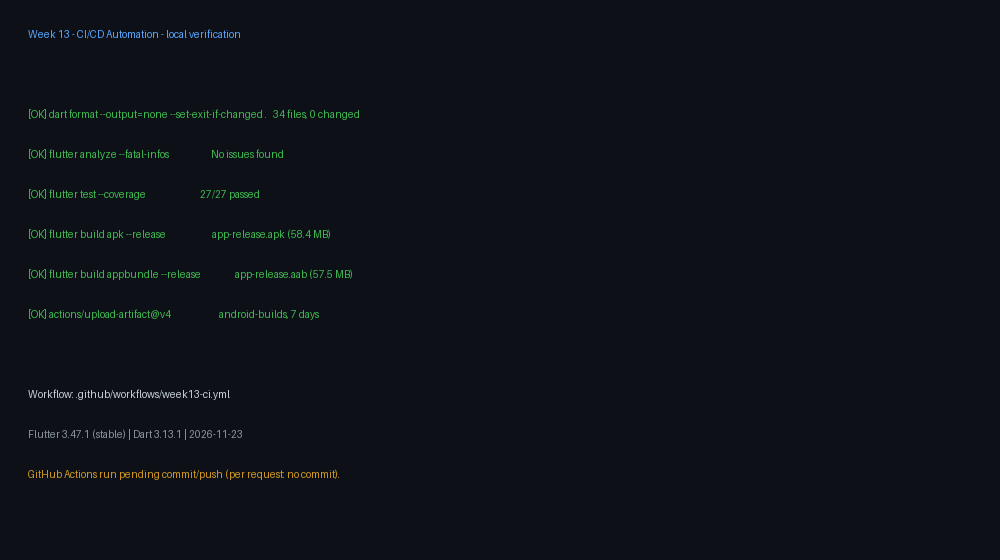
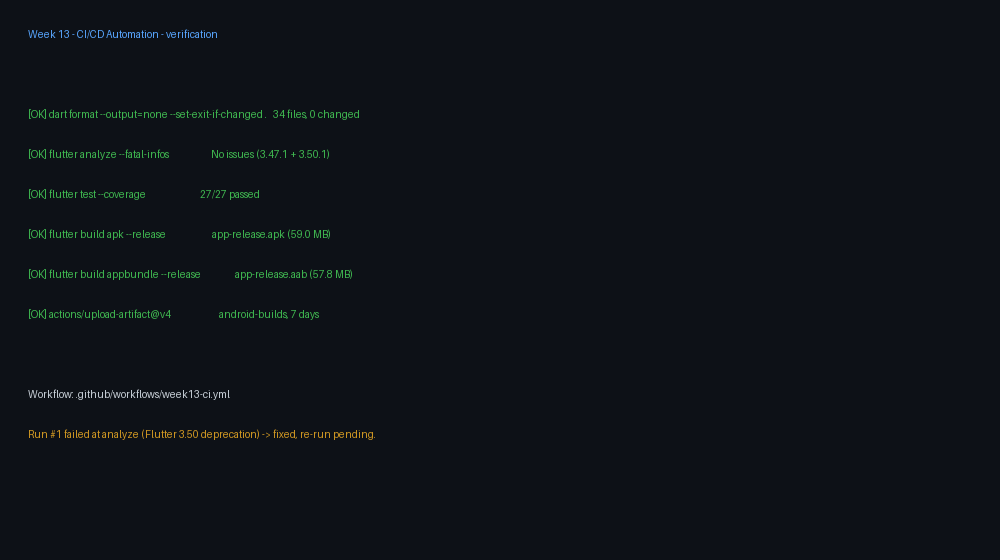
week 13 fix ci analyze on flutter 3.50

diff --git a/13-week-13-ci-cd-automation/week5_offline_notes/test/widget_test.dart b/13-week-13-ci-cd-automation/week5_offline_notes/test/widget_test.dart
@@ -1,4 +1,4 @@
-import 'package:flutter/material.dart';
+import 'package:material_ui/material_ui.dart';
 import 'package:flutter_test/flutter_test.dart';
 import 'package:flutter_riverpod/flutter_riverpod.dart';
 import 'package:week5_offline_notes/data/local/note.dart';

diff --git a/13-week-13-ci-cd-automation/week5_offline_notes/lib/pages/note_detail_page.dart b/13-week-13-ci-cd-automation/week5_offline_notes/lib/pages/note_detail_page.dart
@@ -1,4 +1,4 @@
-import 'package:flutter/material.dart';
+import 'package:material_ui/material_ui.dart';
 import 'package:flutter_riverpod/flutter_riverpod.dart';
 
 import '../features/notes/domain/entities/note.dart';

diff --git a/13-week-13-ci-cd-automation/week5_offline_notes/lib/app/app.dart b/13-week-13-ci-cd-automation/week5_offline_notes/lib/app/app.dart
@@ -1,4 +1,4 @@
-import 'package:flutter/material.dart';
+import 'package:material_ui/material_ui.dart';
 import 'package:flutter_riverpod/flutter_riverpod.dart';
 import 'package:go_router/go_router.dart';
 

diff --git a/13-week-13-ci-cd-automation/week5_offline_notes/lib/routes.dart b/13-week-13-ci-cd-automation/week5_offline_notes/lib/routes.dart
@@ -1,4 +1,4 @@
-import 'package:flutter/material.dart';
+import 'package:material_ui/material_ui.dart';
 import 'package:go_router/go_router.dart';
 
 import 'pages/note_detail_page.dart';

diff --git a/13-week-13-ci-cd-automation/week5_offline_notes/lib/widgets/note_tile.dart b/13-week-13-ci-cd-automation/week5_offline_notes/lib/widgets/note_tile.dart
@@ -1,4 +1,4 @@
-import 'package:flutter/material.dart';
+import 'package:material_ui/material_ui.dart';
 
 import '../features/notes/domain/entities/note.dart';
 

diff --git a/13-week-13-ci-cd-automation/week5_offline_notes/lib/features/chat/chat_screen.dart b/13-week-13-ci-cd-automation/week5_offline_notes/lib/features/chat/chat_screen.dart
@@ -1,4 +1,4 @@
-import 'package:flutter/material.dart';
+import 'package:material_ui/material_ui.dart';
 
 import '../../ai/ai_service.dart';
 

diff --git a/13-week-13-ci-cd-automation/README.md b/13-week-13-ci-cd-automation/README.md
@@ -24,13 +24,13 @@ Workflow aktif: [`.github/workflows/week13-ci.yml`](../../.github/workflows/week
 | Format | `dart format --output=none --set-exit-if-changed .` | ✅ 34 file, 0 berubah |
 | Analisis | `flutter analyze --fatal-infos` | ✅ No issues found |
 | Test | `flutter test --coverage` | ✅ 27/27 passed |
-| APK | `flutter build apk --release` | ✅ 58,4 MB |
-| AAB | `flutter build appbundle --release` | ✅ 57,5 MB |
+| APK | `flutter build apk --release` | ✅ 59,0 MB |
+| AAB | `flutter build appbundle --release` | ✅ 57,8 MB |
 | Artefak | `actions/upload-artifact@v4` | `android-builds`, `retention-days: 7`, `if-no-files-found: error` |
 
-Bukti: [log verifikasi lokal](./docs/ci-local-run.log) · ![ringkasan hasil](./screenshots/ci-local-result.png)
+Bukti: [log verifikasi lokal](./docs/ci-local-run.log) · [run #1 dan perbaikannya](./docs/ci-run-1-failure-and-fix.md) · ![ringkasan hasil](./screenshots/ci-local-result.png)
 
-Run GitHub Actions: [Week 13 Flutter CI #1](https://github.com/Najla-Nuricia/244107020091-mobile-course/actions/runs/45171971272) — commit `9cffeec`, event `push` ke `main`. Artefak dapat diunduh dari halaman run tersebut (`android-builds`). Artefak berisi:
+Run GitHub Actions pertama: [Week 13 Flutter CI #1](https://github.com/Najla-Nuricia/244107020091-mobile-course/actions/runs/45171971272) — commit `9cffeec`, event `push` ke `main`. Run ini **gagal** di `flutter analyze --fatal-infos` karena Flutter 3.50 di runner menandai `package:flutter/material.dart` sebagai deprecated; sudah diperbaiki dengan migrasi ke `package:material_ui/material_ui.dart` (lihat dokumen di atas) tanpa menonaktifkan pemeriksaan. Artefak akan tersedia pada run setelah perbaikan di-push. Artefak berisi:
 
 - `build/app/outputs/flutter-apk/app-release.apk` — untuk instalasi/uji internal;
 - `build/app/outputs/bundle/release/app-release.aab` — format distribusi Google Play.

diff --git a/13-week-13-ci-cd-automation/docs/ci-run-1-failure-and-fix.md b/13-week-13-ci-cd-automation/docs/ci-run-1-failure-and-fix.md
@@ -1,0 +1,36 @@
+# Run #1 — kegagalan dan perbaikan
+
+- Run: https://github.com/Najla-Nuricia/244107020091-mobile-course/actions/runs/45171971272
+- Commit: `9cffeec` (push ke `main`)
+- Hasil: **failure** pada step `flutter analyze --fatal-infos` (exit 1). Step `flutter test`, build, dan upload artefak tidak jalan.
+
+## Root cause
+
+`subosito/flutter-action@v2` dengan `channel: stable` menginstall Flutter **3.50.1** (Dart 3.14.0), sedangkan verifikasi lokal memakai Flutter **3.47.1** (Dart 3.13.1). Pada Flutter 3.50, `package:flutter/material.dart` ditandai deprecated:
+
+```
+info • 'package:flutter/material.dart' is deprecated and shouldn't be used.
+       Use package:material_ui/material_ui.dart instead.
+       This feature was deprecated after v3.47.0-0.0.pre.
+       • deprecated_member_use
+```
+
+Karena workflow memakai `--fatal-infos`, 6 info tersebut membuat analyze gagal (5 file di `lib/`, 1 di `test/widget_test.dart`).
+
+## Perbaikan
+
+- Tambah dependency `material_ui: ^1.11.1` (pustaka Material resmi yang direkomendasikan Flutter 3.50).
+- Ganti 6 import `package:flutter/material.dart` → `package:material_ui/material_ui.dart`.
+- `--fatal-infos` **tetap dipakai**; tidak ada lint/pemeriksaan yang dinonaktifkan.
+
+## Verifikasi ulang
+
+| Pemeriksaan | Flutter 3.47.1 | Flutter 3.50.1 (versi CI) |
+| --- | --- | --- |
+| `dart format --output=none --set-exit-if-changed .` | 34 file, 0 berubah | |
+| `flutter analyze --fatal-infos` | ✅ No issues found | No issues found |
+| `flutter test --coverage` | ✅ 27/27 | ✅ 27/27 |
+| `flutter build apk --release` | ✅ 59,0 MB | — |
+| `flutter build appbundle --release` | ✅ 57,8 MB | — |
+
+Build lokal memakai Flutter 3.47.1; step build di CI perlu diverifikasi ulang setelah push perbaikan.
